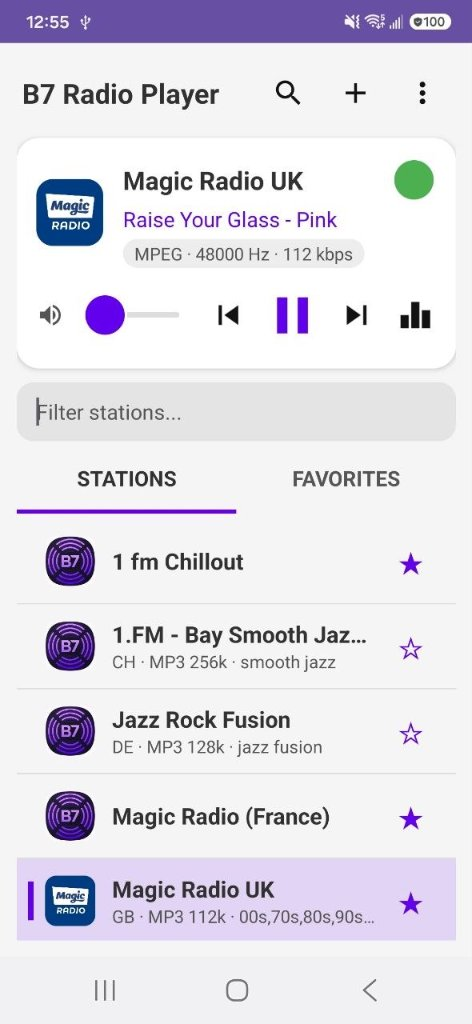
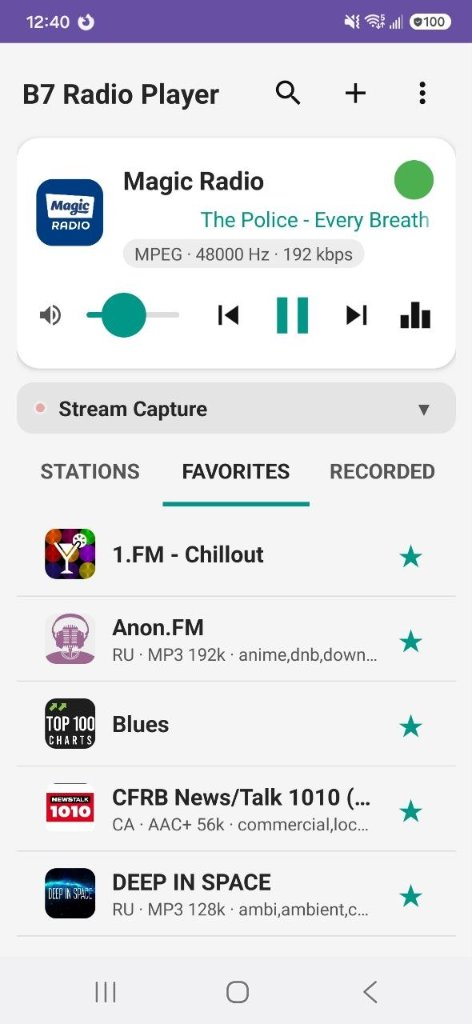
Update README.md and Fastlane screenshots

diff --git a/README.md b/README.md
@@ -2,8 +2,12 @@
 
 An open-source Android internet radio player built with AndroidX Media3.
 
-## Screenshot
-<img src="main_screen_preview.jpg" alt="B7 Radio Player Main Screen" width="320" />
+## Screenshots
+<p align="left">
+  <img src="screenshots/1_player.jpg" alt="B7 Radio Player Main Screen" width="260" />
+  <img src="screenshots/2_recording.jpg" alt="B7 Radio Player Stream Capture" width="260" />
+  <img src="screenshots/3_recorded.jpg" alt="B7 Radio Player Recorded Tab" width="260" />
+</p>
 
 ## Features
 - Stream live internet radio stations (MP3, AAC, M3U, PLS)
